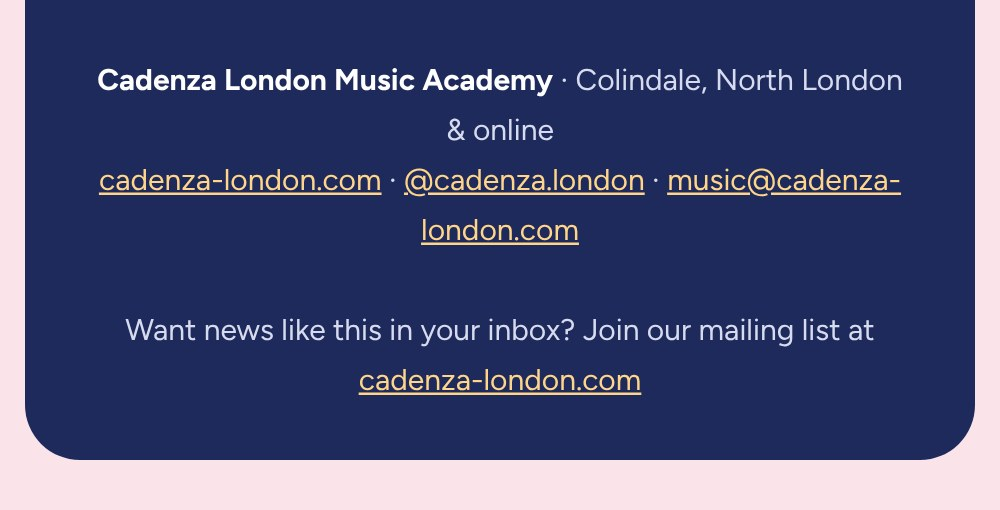
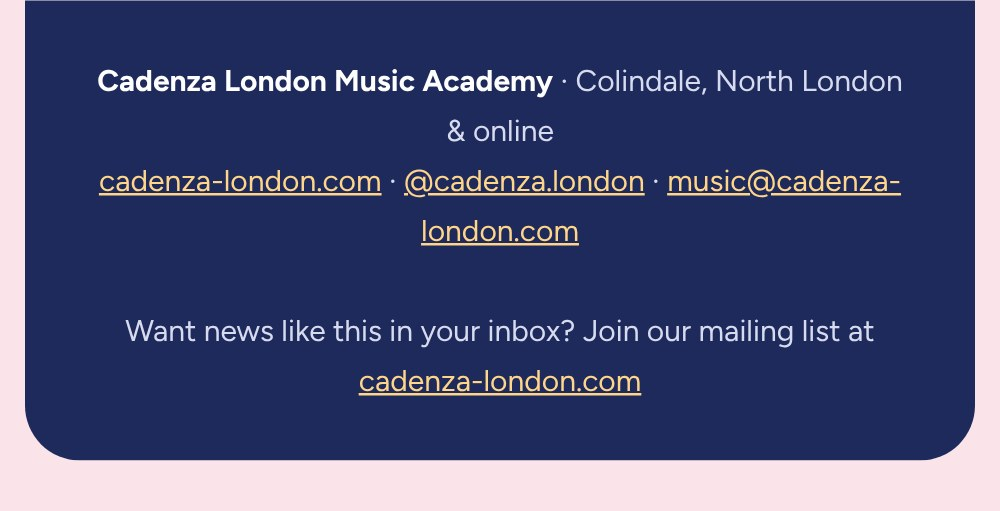
Newsletter Nov 2026: January Winter Concert plus May Spring Competition
Claude-Session: https://claude.ai/code/session_015bt2nYSBxtEEo5rA4rXfs1

diff --git a/newsletter-nov2026/email/index.html b/newsletter-nov2026/email/index.html
@@ -26,22 +26,22 @@ Early access: our new Sight-Reading Club is FREE until 31 Dec, the Digital Exam 
 
 <table role="presentation" width="480" cellpadding="0" cellspacing="0" border="0" style="width:100%;max-width:480px;">
   <tr><td style="padding:0;line-height:0;font-size:0;">
-    <a href="https://cadenza-london.com/newsletter-nov2026/" target="_blank"><img src="https://cadenza-london.com/newsletter-nov2026/email/part1.jpg?v=14" width="480" alt="Cadenza London Music Academy. November 2026 Newsletter. Hello hello! Big news is here, and you hear it first. We've got so much going on at Cadenza: as our students and mailing list VIPs, you get early access to two brand-new workshops before anyone else!" style="display:block;width:100%;max-width:480px;height:auto;"></a>
+    <a href="https://cadenza-london.com/newsletter-nov2026/" target="_blank"><img src="https://cadenza-london.com/newsletter-nov2026/email/part1.jpg?v=15" width="480" alt="Cadenza London Music Academy. November 2026 Newsletter. Hello hello! Big news is here, and you hear it first. We've got so much going on at Cadenza: as our students and mailing list VIPs, you get early access to two brand-new workshops before anyone else!" style="display:block;width:100%;max-width:480px;height:auto;"></a>
   </td></tr>
   <tr><td style="padding:0;line-height:0;font-size:0;">
-    <a href="https://cadenza-london.com/sight-reading-club#book" target="_blank"><img src="https://cadenza-london.com/newsletter-nov2026/email/part2.jpg?v=14" width="480" alt="New launch: Sight-Reading Club starts Tuesday 3 November, free every session until 31 December. Weekly on Zoom, Tuesdays 6:00–6:45pm, 8 players max. Beginner Grades 1–3, Intermediate Grades 4–6. From January £8/£10 a session or monthly plans from £15; Cadenza students get 1 free session a month. Tap to book your free place." style="display:block;width:100%;max-width:480px;height:auto;"></a>
+    <a href="https://cadenza-london.com/sight-reading-club#book" target="_blank"><img src="https://cadenza-london.com/newsletter-nov2026/email/part2.jpg?v=15" width="480" alt="New launch: Sight-Reading Club starts Tuesday 3 November, free every session until 31 December. Weekly on Zoom, Tuesdays 6:00–6:45pm, 8 players max. Beginner Grades 1–3, Intermediate Grades 4–6. From January £8/£10 a session or monthly plans from £15; Cadenza students get 1 free session a month. Tap to book your free place." style="display:block;width:100%;max-width:480px;height:auto;"></a>
   </td></tr>
   <tr><td style="padding:0;line-height:0;font-size:0;">
-    <a href="https://cadenza-london.com/digital-exam-ready/" target="_blank"><img src="https://cadenza-london.com/newsletter-nov2026/email/part3.jpg?v=14" width="480" alt="Digital Exam Ready Course. Want to polish your exam pieces for a top result? Tired of recording your digital exam again and again at home? A 4-week crash course for ABRSM and Trinity digital exams, Grades 1 to 8, groups of 4 to 6. Starts 28 November or 5 January; early bird, first 3 save £20. Week 1 Score Detective, Week 2 Style and Character, Week 3 Mock Exam, Week 4 Recording Day on a grand piano with a professional videographer. Taught by Eric: 15+ years, 100% passing rate. From £295, Cadenza students save 10%. Tap to register interest for free." style="display:block;width:100%;max-width:480px;height:auto;"></a>
+    <a href="https://cadenza-london.com/digital-exam-ready/" target="_blank"><img src="https://cadenza-london.com/newsletter-nov2026/email/part3.jpg?v=15" width="480" alt="Digital Exam Ready Course. Want to polish your exam pieces for a top result? Tired of recording your digital exam again and again at home? A 4-week crash course for ABRSM and Trinity digital exams, Grades 1 to 8, groups of 4 to 6. Starts 28 November or 5 January; early bird, first 3 save £20. Week 1 Score Detective, Week 2 Style and Character, Week 3 Mock Exam, Week 4 Recording Day on a grand piano with a professional videographer. Taught by Eric: 15+ years, 100% passing rate. From £295, Cadenza students save 10%. Tap to register interest for free." style="display:block;width:100%;max-width:480px;height:auto;"></a>
   </td></tr>
   <tr><td style="padding:0;line-height:0;font-size:0;">
-    <a href="https://cadenza-questionnaire-2027.netlify.app" target="_blank"><img src="https://cadenza-london.com/newsletter-nov2026/email/part4.jpg?v=14" width="480" alt="Photos from our Christmas concert 2025. Missed our concert last year end? We're now planning a Spring Competition in May 2027, open to everyone, with the winners performing at our Winners' Christmas Concert. Tap to vote for our 2027 event: your opinion matters!" style="display:block;width:100%;max-width:480px;height:auto;"></a>
+    <a href="https://cadenza-questionnaire-2027.netlify.app" target="_blank"><img src="https://cadenza-london.com/newsletter-nov2026/email/part4.jpg?v=15" width="480" alt="Photos from our Christmas concert 2025. Missed our concert last year end? We're now planning a Winter Concert in late January and a Spring Competition in May 2027, open to everyone; the competition winners will perform at our Winners' Christmas Concert. Tap to vote for our 2027 event: your opinion matters!" style="display:block;width:100%;max-width:480px;height:auto;"></a>
   </td></tr>
   <tr><td style="padding:0;line-height:0;font-size:0;">
-    <a href="mailto:music@cadenza-london.com" target="_blank"><img src="https://cadenza-london.com/newsletter-nov2026/email/part5.jpg?v=14" width="480" alt="Looking for photos of your child at the concert? If you can't find them in the Google Drive folder, email music@cadenza-london.com and we'll send them over. Questions? Just reply to this email. Eric and Jessica x" style="display:block;width:100%;max-width:480px;height:auto;"></a>
+    <a href="mailto:music@cadenza-london.com" target="_blank"><img src="https://cadenza-london.com/newsletter-nov2026/email/part5.jpg?v=15" width="480" alt="Looking for photos of your child at the concert? If you can't find them in the Google Drive folder, email music@cadenza-london.com and we'll send them over. Questions? Just reply to this email. Eric and Jessica x" style="display:block;width:100%;max-width:480px;height:auto;"></a>
   </td></tr>
   <tr><td style="padding:0;line-height:0;font-size:0;">
-    <a href="https://cadenza-london.com" target="_blank"><img src="https://cadenza-london.com/newsletter-nov2026/email/part6.jpg?v=14" width="480" alt="Cadenza London Music Academy, Colindale, North London and online. cadenza-london.com, @cadenza.london, music@cadenza-london.com" style="display:block;width:100%;max-width:480px;height:auto;"></a>
+    <a href="https://cadenza-london.com" target="_blank"><img src="https://cadenza-london.com/newsletter-nov2026/email/part6.jpg?v=15" width="480" alt="Cadenza London Music Academy, Colindale, North London and online. cadenza-london.com, @cadenza.london, music@cadenza-london.com" style="display:block;width:100%;max-width:480px;height:auto;"></a>
   </td></tr>
   <tr><td align="center" style="padding:14px 16px 24px;font-family:Arial,Helvetica,sans-serif;font-size:12px;line-height:18px;color:#8a7f86;">
     Can't see the pictures? <a href="https://cadenza-london.com/newsletter-nov2026/" target="_blank" style="color:#8a7f86;text-decoration:underline;">View this newsletter online</a>.<br>

diff --git a/newsletter-nov2026/index.html b/newsletter-nov2026/index.html
@@ -284,7 +284,7 @@ Early access: our new Sight-Reading Club is FREE until 31 Dec, and the Digital E
         <tr>
           <td align="center" style="padding:22px 18px 0;">
             <div class="fat mid" style="font-family:'Bagel Fat One','Arial Rounded MT Bold','Arial Black',Arial,sans-serif;font-size:34px;line-height:38px;color:#1f2a5c;">Missed our concert last year end?</div>
-            <p class="body" style="font-family:'Figtree',Arial,sans-serif;font-size:16px;line-height:25px;color:#1f2a5c;margin:14px 0 0;">We've had so much feedback from many of you asking for the concert to happen again! We're now planning a <strong>Spring Competition in May 2027</strong>, open to everyone, and the winners will perform at our <strong>Winners' Christmas Concert</strong>! Tell us what works best for your family; it takes 2 minutes.</p>
+            <p class="body" style="font-family:'Figtree',Arial,sans-serif;font-size:16px;line-height:25px;color:#1f2a5c;margin:14px 0 0;">We've had so much feedback from many of you asking for the concert to happen again! We're now planning a <strong>Winter Concert in late January</strong> and a <strong>Spring Competition in May 2027</strong>, open to everyone. The competition winners will perform at our Winners' Christmas Concert! Tell us what works best for your family; it takes 2 minutes.</p>
             <table role="presentation" align="center" cellpadding="0" cellspacing="0" style="margin:16px auto 0;"><tr>
               <td align="center" style="background:#d4607f;border-radius:30px;padding:10px 20px;text-align:center;">
                 <a href="https://cadenza-questionnaire-2027.netlify.app" class="hand" style="font-family:'Gochi Hand','Comic Sans MS',cursive;font-size:20px;color:#ffffff;text-decoration:none;display:inline-block;line-height:24px;">Vote for our 2027 event!<br><span style="font-size:17px;">Your opinion matters! 👉</span></a>
